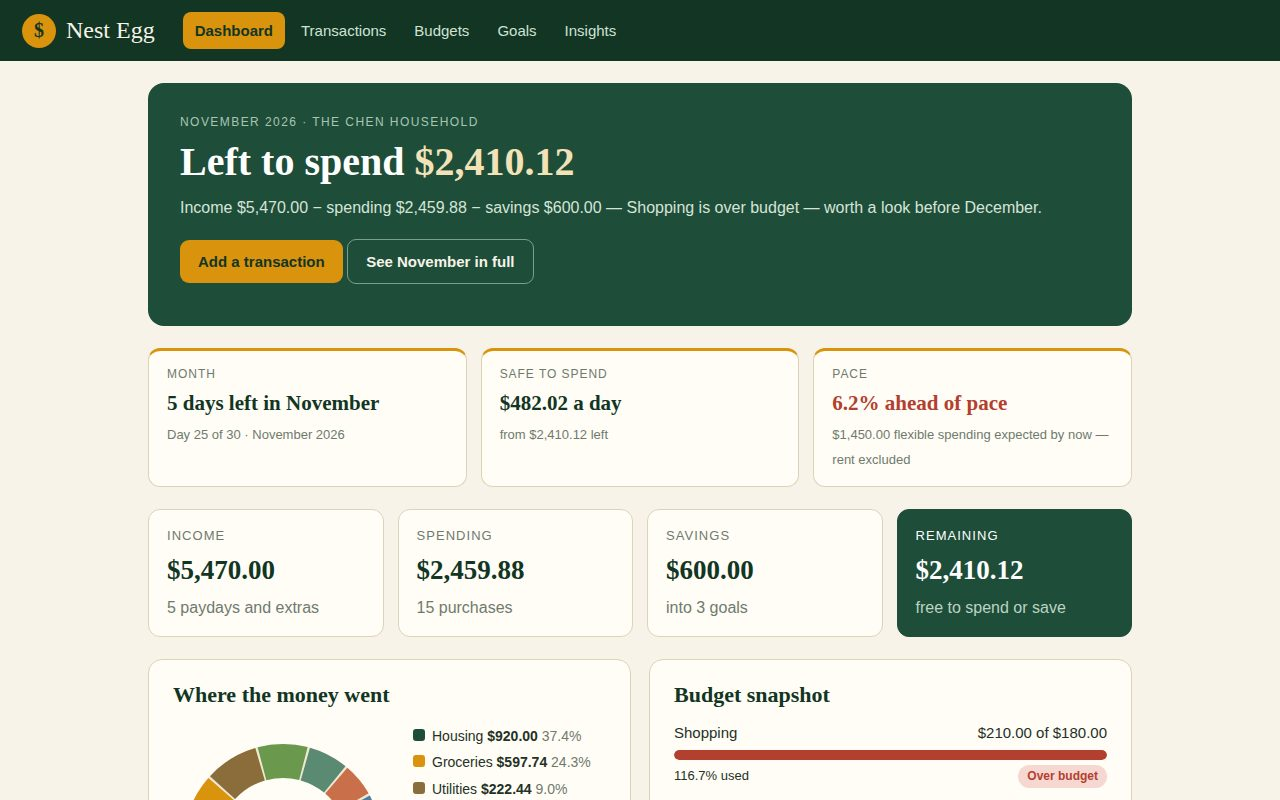
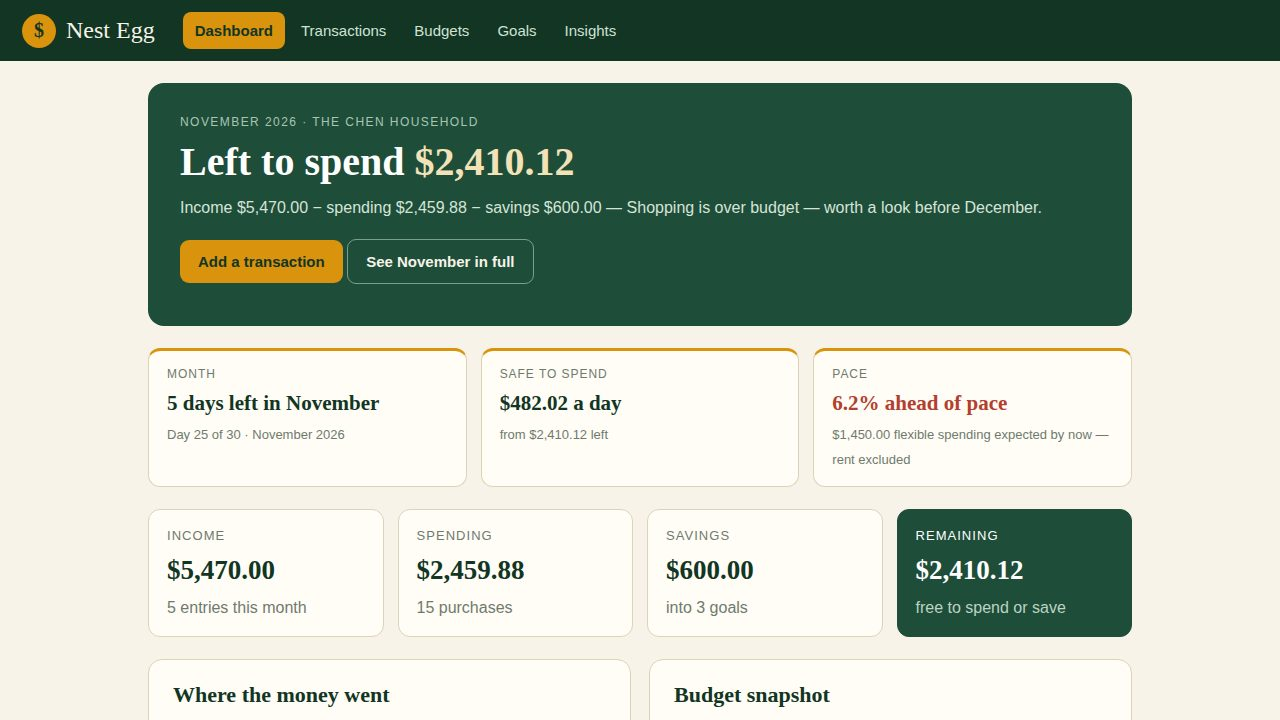
Nest Egg polish round 2 — fix run_completes, edit transactions, CSV export
- main.ts: clear only the output dir's CONTENTS, never the dir itself.
  The grader bind-mounts /output, and rm -rf on a mount point fails
  with EBUSY (exit 1) — that is what rejected the first submission.
  Reproduced locally on a bind mount, fixed, re-verified exit 0 in
  the grader's exact conditions (read-only repo, bind-mounted
  output, no network, 10 s cap) with byte-identical repeat runs.
- Transactions: edit any row inline (date/type/category/note/amount);
  saving edits re-sync the goal so the ledger and goals never drift.
- Transactions: download the shown rows as CSV (full list or filtered).
- Goal top-ups are dated on the demo month's day, not the real today,
  so the ledger stays in November 2026 whenever it is opened.
- Dashboard labels are computed now (income entries, goal count);
  the Nov 22-30 week really ends on the 30th.
- Screenshots re-taken at 1280x720 (q82); dossier 420,860 bytes.

Changed region(s): [[0.0, 0.0, 1.0, 1.0], [0.125, 0.9167, 0.4688, 1.0], [0.3438, 0.6417, 0.375, 0.6722]]

diff --git a/app/pages.js b/app/pages.js
@@ -44,6 +44,8 @@ function pageDashboard(state) {
   const recent = [...state.transactions]
     .sort((a, b) => (b.date + b.id).localeCompare(a.date + a.id)).slice(0, 5);
   const kindWord = { income: "Income", spending: "Spent", saving: "Saved" };
+  const incomeCount = state.transactions.filter((t) => t.kind === "income").length;
+  const spendCount = state.transactions.filter((t) => t.kind === "spending").length;
   const pace = monthPace(state);
   const paceWord = Math.abs(pace.pacePct) < 0.5 ? "right on pace"
     : pace.pacePct > 0 ? `${pace.pacePct.toFixed(1)}% ahead of pace`
@@ -66,9 +68,9 @@ function pageDashboard(state) {
     <div><span class="pace-label">Pace</span><strong id="pace-word" class="${paceTone}">${paceWord}</strong><span class="muted">${money(pace.expected)} flexible spending expected by now — rent excluded</span></div>
   </section>
   <section class="cards">
-    <div class="stat"><span class="stat-label">Income</span><strong id="stat-income">${money(totals.income)}</strong><span class="muted">5 paydays and extras</span></div>
-    <div class="stat"><span class="stat-label">Spending</span><strong id="stat-spending">${money(totals.spending)}</strong><span class="muted">${state.transactions.filter((t) => t.kind === "spending").length} purchases</span></div>
-    <div class="stat"><span class="stat-label">Savings</span><strong id="stat-saving">${money(totals.saving)}</strong><span class="muted">into 3 goals</span></div>
+    <div class="stat"><span class="stat-label">Income</span><strong id="stat-income">${money(totals.income)}</strong><span class="muted">${incomeCount} ${incomeCount === 1 ? "entry" : "entries"} this month</span></div>
+    <div class="stat"><span class="stat-label">Spending</span><strong id="stat-spending">${money(totals.spending)}</strong><span class="muted">${spendCount} purchases</span></div>
+    <div class="stat"><span class="stat-label">Savings</span><strong id="stat-saving">${money(totals.saving)}</strong><span class="muted">into ${state.goals.length} ${state.goals.length === 1 ? "goal" : "goals"}</span></div>
     <div class="stat highlight"><span class="stat-label">Remaining</span><strong id="stat-remaining">${money(totals.remaining)}</strong><span class="muted">free to spend or save</span></div>
   </section>
   <div class="two-col">
@@ -120,6 +122,24 @@ function filteredTx(state, ui) {
   }).sort((a, b) => (b.date + b.id).localeCompare(a.date + a.id));
 }
 
+function txEditRow(tx, state) {
+  const cats = categoryOptions(tx.kind, state);
+  return `<li class="tx-edit">
+    <form class="edit-grid" data-id="${esc(tx.id)}">
+      <label>Date <input name="date" type="date" value="${esc(tx.date)}" required></label>
+      <label>Type <select name="kind">
+        <option value="spending"${tx.kind === "spending" ? " selected" : ""}>Spending</option>
+        <option value="income"${tx.kind === "income" ? " selected" : ""}>Income</option>
+        <option value="saving"${tx.kind === "saving" ? " selected" : ""}>Saving</option>
+      </select></label>
+      <label>Category <select name="category">${cats.map((c) => `<option${c === tx.category ? " selected" : ""}>${esc(c)}</option>`).join("")}</select></label>
+      <label>Note <input name="note" type="text" value="${esc(tx.note)}" maxlength="80" required></label>
+      <label>Amount ($) <input name="amount" type="number" min="0.01" step="0.01" value="${(tx.cents / 100).toFixed(2)}" required></label>
+      <span class="edit-actions"><button class="btn small" type="submit">Save</button> <button class="btn small ghost-dark edit-cancel" type="button">Cancel</button></span>
+    </form>
+  </li>`;
+}
+
 function pageTransactions(state, ui) {
   const list = filteredTx(state, ui);
   const totals = sumKinds(list);
@@ -129,7 +149,7 @@ function pageTransactions(state, ui) {
   <section class="panel">
     <h1>Add a transaction</h1>
     <form id="tx-form" class="form-grid">
-      <label>Date <input id="tx-date" type="date" value="2026-11-26" required></label>
+      <label>Date <input id="tx-date" type="date" value="${demoDateString(state)}" required></label>
       <label>Type
         <select id="tx-type">
           <option value="spending">Spending</option>
@@ -164,11 +184,13 @@ function pageTransactions(state, ui) {
       <label>Search <input id="flt-q" type="search" placeholder="Search notes…" value="${esc(ui.q || "")}"></label>
     </div>
     <p id="tx-totals">Showing ${list.length} of ${state.transactions.length} — income <b>${money(totals.income)}</b> · spending <b>${money(totals.spending)}</b> · saving <b>${money(totals.saving)}</b></p>
+    <p><button class="btn small" id="tx-csv" type="button">Download these ${list.length} as CSV</button> <span class="muted">Exports exactly the rows shown above — no account, no upload.</span></p>
     <ul class="tx-list">
-      ${list.map((tx) => `<li>
+      ${list.map((tx) => ui.editingId === tx.id ? txEditRow(tx, state) : `<li>
         <span class="tx-date">${esc(tx.date)}</span>
         <span class="tx-note">${esc(tx.note)} <span class="muted">· ${esc(tx.category)}</span></span>
         <b class="amt-${tx.kind}">${tx.kind === "income" ? "+" : "−"}${money(tx.cents)}</b>
+        <button class="tx-edit-btn" data-id="${esc(tx.id)}" aria-label="Edit ${esc(tx.note)}">Edit</button>
         <button class="tx-del" data-id="${esc(tx.id)}" aria-label="Delete ${esc(tx.note)}">Delete</button>
       </li>`).join("") || `<li class="muted">Nothing matches those filters.</li>`}
     </ul>

diff --git a/app/boot.js b/app/boot.js
@@ -4,7 +4,20 @@
 "use strict";
 
 let nestState = loadState();
-const nestUi = { type: "", cat: "", q: "", formKind: "spending" };
+const nestUi = { type: "", cat: "", q: "", formKind: "spending", editingId: "" };
+
+/* Offer a text file as a download without any server round-trip. */
+function downloadText(filename, text, mime) {
+  const blob = new Blob([text], { type: mime || "text/plain;charset=utf-8" });
+  const url = URL.createObjectURL(blob);
+  const a = document.createElement("a");
+  a.href = url;
+  a.download = filename;
+  document.body.appendChild(a);
+  a.click();
+  a.remove();
+  setTimeout(() => URL.revokeObjectURL(url), 1000);
+}
 
 function currentRoute() {
   const hash = window.location.hash || "#/";
@@ -65,6 +78,7 @@ function bindPage(route) {
       nestUi.type = document.getElementById("flt-type").value;
       nestUi.cat = document.getElementById("flt-cat").value;
       nestUi.q = document.getElementById("flt-q").value;
+      nestUi.editingId = "";
       render();
       const q = document.getElementById("flt-q");
       q.focus();
@@ -76,6 +90,7 @@ function bindPage(route) {
       nestUi.type = document.getElementById("flt-type").value;
       nestUi.cat = document.getElementById("flt-cat").value;
       nestUi.q = document.getElementById("flt-q").value;
+      nestUi.editingId = "";
       render();
       const q = document.getElementById("flt-q");
       q.focus();
@@ -87,6 +102,49 @@ function bindPage(route) {
         render();
       });
     });
+    document.querySelectorAll(".tx-edit-btn").forEach((btn) => {
+      btn.addEventListener("click", () => {
+        nestUi.editingId = btn.getAttribute("data-id");
+        render();
+      });
+    });
+    const csvBtn = document.getElementById("tx-csv");
+    if (csvBtn) {
+      csvBtn.addEventListener("click", () => {
+        const rows = filteredTx(nestState, nestUi);
+        downloadText("nest-egg-transactions.csv", transactionsCSV(rows), "text/csv;charset=utf-8");
+      });
+    }
+    const editForm = document.querySelector(".edit-grid");
+    if (editForm) {
+      const kindSel = editForm.querySelector('select[name="kind"]');
+      kindSel.addEventListener("change", () => {
+        const catSel = editForm.querySelector('select[name="category"]');
+        catSel.innerHTML = categoryOptions(kindSel.value, nestState)
+          .map((c) => `<option>${esc(c)}</option>`).join("");
+      });
+      editForm.querySelector(".edit-cancel").addEventListener("click", () => {
+        nestUi.editingId = "";
+        render();
+      });
+      editForm.addEventListener("submit", (ev) => {
+        ev.preventDefault();
+        const id = editForm.getAttribute("data-id");
+        const cents = dollarsToCents(editForm.querySelector('input[name="amount"]').value);
+        if (!Number.isFinite(cents) || cents <= 0) return;
+        const note = editForm.querySelector('input[name="note"]').value.trim();
+        if (!note) return;
+        updateTransaction(nestState, id, {
+          date: editForm.querySelector('input[name="date"]').value || demoDateString(nestState),
+          kind: kindSel.value,
+          category: editForm.querySelector('select[name="category"]').value,
+          note,
+          cents,
+        });
+        nestUi.editingId = "";
+        render();
+      });
+    }
   }
 
   if (route === "budgets") {

diff --git a/app/money.js b/app/money.js
@@ -123,6 +123,17 @@ function demoToday(state) {
   return { year, month, day, daysInMonth: last, daysLeft: last - day };
 }
 
+/* The demo "today" as an ISO date, e.g. "2026-11-25": the day the
+   ledger is on, so anything the household adds (a goal top-up, an
+   edited transaction) is dated inside the demo month instead of on
+   the real calendar day the browser happens to be opened. */
+function demoDateString(state) {
+  const t = demoToday(state);
+  const mm = String(t.month).padStart(2, "0");
+  const dd = String(t.day).padStart(2, "0");
+  return `${t.year}-${mm}-${dd}`;
+}
+
 /* How November is pacing: what is safe to spend each remaining day,
    and whether the flexible spending is ahead of or behind the plan
    for this point in the month. Categories whose money lands as one
@@ -166,7 +177,7 @@ function weeklySpending(list) {
     { label: "Nov 1–7", from: 1, to: 7, cents: 0 },
     { label: "Nov 8–14", from: 8, to: 14, cents: 0 },
     { label: "Nov 15–21", from: 15, to: 21, cents: 0 },
-    { label: "Nov 22–30", from: 22, to: 31, cents: 0 },
+    { label: "Nov 22–30", from: 22, to: 30, cents: 0 },
   ];
   for (const tx of list) {
     if (tx.kind !== "spending") continue;
@@ -225,7 +236,7 @@ function addToGoal(state, goalId, cents) {
   goal.saved += cents;
   const tx = {
     id: nextTxId(state),
-    date: new Date().toISOString().slice(0, 10),
+    date: demoDateString(state),
     kind: "saving",
     category: goal.name,
     note: "Added to " + goal.name,
@@ -234,6 +245,46 @@ function addToGoal(state, goalId, cents) {
   state.transactions.push(tx);
   saveState(state);
   return goal;
+}
+
+/* Change one transaction in place, keeping its id. A saving entry's
+   goal is unwound for the old values and re-applied for the new ones,
+   so editing an amount, a category or a kind can never leave a goal
+   out of step with the ledger. Returns false when the id is unknown. */
+function updateTransaction(state, id, fields) {
+  const at = state.transactions.findIndex((tx) => tx.id === id);
+  if (at < 0) return false;
+  const old = state.transactions[at];
+  if (old.kind === "saving") {
+    const g = state.goals.find((x) => x.name === old.category);
+    if (g) g.saved = Math.max(0, g.saved - old.cents);
+  }
+  const updated = { ...old, ...fields, id };
+  state.transactions[at] = updated;
+  if (updated.kind === "saving") {
+    const g = state.goals.find((x) => x.name === updated.category);
+    if (g) g.saved += updated.cents;
+  }
+  saveState(state);
+  return true;
+}
+
+/* The ledger as a CSV download: one row a transaction, amounts in
+   dollars with the sign the row carries on screen (income +, the
+   rest −). Notes are quoted and doubled the way CSV wants. */
+function csvCell(value) {
+  const s = String(value == null ? "" : value);
+  return /[",\n]/.test(s) ? '"' + s.replace(/"/g, '""') + '"' : s;
+}
+
+function transactionsCSV(list) {
+  const head = ["Date", "Type", "Category", "Note", "Amount"];
+  const rows = list.map((tx) => {
+    const sign = tx.kind === "income" ? 1 : -1;
+    const amount = (sign * tx.cents / 100).toFixed(2);
+    return [tx.date, tx.kind, tx.category, tx.note, amount].map(csvCell).join(",");
+  });
+  return head.join(",") + "\n" + rows.join("\n") + "\n";
 }
 
 function createGoal(state, name, targetCents, startCents) {

diff --git a/app/style.css b/app/style.css
@@ -206,6 +206,25 @@ h2 { font-size: 22px; }
   color: var(--muted); cursor: pointer; padding: 3px 9px; font-size: 13px;
 }
 .tx-del:hover { border-color: var(--red); color: var(--red); }
+.tx-edit-btn {
+  background: none; border: 1px solid var(--line); border-radius: 7px;
+  color: var(--muted); cursor: pointer; padding: 3px 9px; font-size: 13px;
+}
+.tx-edit-btn:hover { border-color: var(--pine); color: var(--pine); }
+
+/* Inline edit row: the form takes the whole row and wraps on narrow screens. */
+.tx-edit { flex-wrap: wrap; }
+.edit-grid {
+  display: grid;
+  grid-template-columns: 150px 130px 160px 1fr 120px auto;
+  gap: 10px;
+  align-items: end;
+  width: 100%;
+}
+.edit-grid label { display: flex; flex-direction: column; gap: 4px; font-size: 13px; font-weight: 600; }
+.edit-grid input, .edit-grid select { padding: 7px 9px; font-size: 14px; }
+.edit-actions { display: flex; gap: 8px; }
+.btn.ghost-dark { background: transparent; color: var(--pine); border: 1px solid var(--line); }
 
 /* Forms */
 .form-grid {
@@ -266,6 +285,7 @@ input, select {
   .pace { grid-template-columns: 1fr; }
   .two-col { grid-template-columns: 1fr; }
   .form-grid { grid-template-columns: 1fr; }
+  .edit-grid { grid-template-columns: 1fr 1fr; }
   .topbar { gap: 10px; padding: 10px 14px; }
   .nav-link { padding: 6px 8px; font-size: 14px; }
   .activity li, .tx-list li { flex-wrap: wrap; }

diff --git a/main.ts b/main.ts
@@ -35,11 +35,21 @@ function copyTree(src: string, dst: string): void {
   }
 }
 
+function clearDir(dir: string): void {
+  // Clear only the directory's CONTENTS, never the directory itself:
+  // the grader bind-mounts an empty directory at /output, and removing
+  // a mount point fails with EBUSY ("Device or resource busy") — that
+  // is what rejected the first submission (run_completes, exit code 1).
+  mkdirSync(dir, { recursive: true });
+  for (const name of readdirSync(dir)) {
+    rmSync(join(dir, name), { recursive: true, force: true });
+  }
+}
+
 function main(): void {
   const here = resolve(fileURLToPath(new URL(".", import.meta.url)));
   const outDir = resolve(process.env.MAKEFUN_OUTPUT_DIR || "/output");
-  rmSync(outDir, { recursive: true, force: true });
-  mkdirSync(outDir, { recursive: true });
+  clearDir(outDir);
 
   for (const folder of ["app", "screenshots"]) {
     const src = join(here, folder);

diff --git a/README.md b/README.md
@@ -4,7 +4,7 @@
 [![rank](https://make.fun/badge/best-household-budget-site-20261126-1457/mytlyy0745/best-household-budget-site-20261126/rank.svg)](https://make.fun/bounty/best-household-budget-site-20261126-1457/leaderboard?utm_source=github&utm_medium=readme&utm_campaign=best-household-budget-site-20261126-1457)
 [![reward](https://make.fun/badge/best-household-budget-site-20261126-1457/mytlyy0745/best-household-budget-site-20261126/reward.svg)](https://make.fun/bounty/best-household-budget-site-20261126-1457?utm_source=github&utm_medium=readme&utm_campaign=best-household-budget-site-20261126-1457)
 
-Nest Egg is a household budget site for one family keeping its money straight. The dashboard shows what is left to spend in November 2026, with income, spending and savings at a glance, a donut of where the spending went, and a month-pace strip: days left in the month, what is safe to spend each remaining day, and whether the flexible spending is ahead of or behind the plan (rent, which lands as one lump on the 1st, is left out of the pace so it never cries wolf). Transactions can be added, filtered and deleted; nine monthly budgets show progress and can have their limits changed, with an all-budgets total at the top; three savings goals track progress and take top-ups, each with a projected finish date worked out from what the household actually saves into it each month; Insights compares November with October, charts spending by week, ranks the biggest spending, and turns the household's own numbers into plain-language tips. Everything is static files — no build step, no network requests, no account — and changes are saved in the browser's local storage, with a one-click reset back to the demo month.
+Nest Egg is a household budget site for one family keeping its money straight. The dashboard shows what is left to spend in November 2026, with income, spending and savings at a glance, a donut of where the spending went, and a month-pace strip: days left in the month, what is safe to spend each remaining day, and whether the flexible spending is ahead of or behind the plan (rent, which lands as one lump on the 1st, is left out of the pace so it never cries wolf). Transactions can be added, edited inline, filtered and deleted, and downloaded as a CSV of exactly the rows shown; nine monthly budgets show progress and can have their limits changed, with an all-budgets total at the top; three savings goals track progress and take top-ups, each with a projected finish date worked out from what the household actually saves into it each month; Insights compares November with October, charts spending by week, ranks the biggest spending, and turns the household's own numbers into plain-language tips. Everything is static files — no build step, no network requests, no account — and changes are saved in the browser's local storage, with a one-click reset back to the demo month.
 
 ## Run it
 
